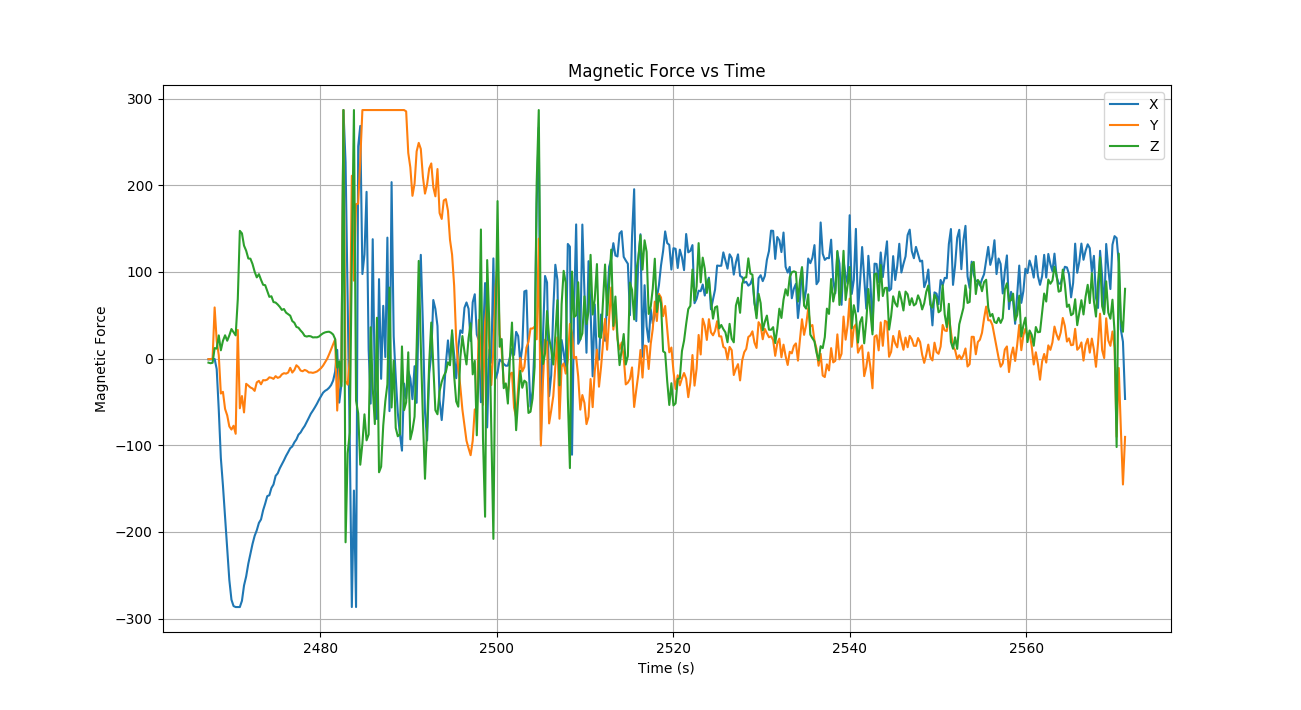
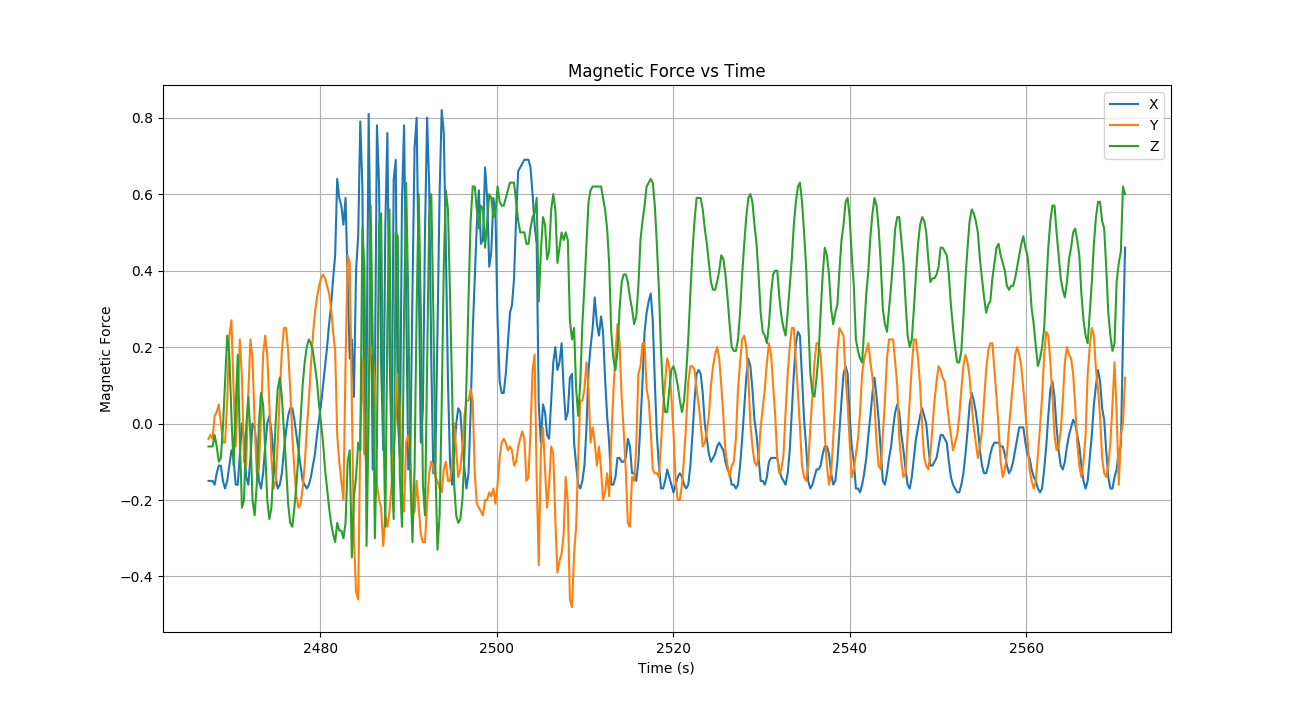
Fixed magGraph

diff --git a/Data/magGraph.py b/Data/magGraph.py
@@ -15,9 +15,9 @@ accz = range(dataPts)
 for i in range(len(words)/37):			#Loop amount of data point times
 	time[i] = float(words[i*37])/1000	#Set first var = the time converted to sec
 						#Use this to add acc in all axies acc[i] = float(words[(i*37)+20]) + float(words[(i*37)+22]) + float(words[(i*37)+24])	#Set the second var to whatever you want, in this case all of the acc added up
-	accx[i] = float(words[(i*37)+2])	#Add 20, 22, 24 for non calculated values
-	accy[i] = float(words[(i*37)+4])	#Add 14, 16, 18 for the calculated values
-	accz[i] = float(words[(i*37)+6])
+	accx[i] = float(words[(i*37)+26])	#Add 20, 22, 24 for non calculated values
+	accy[i] = float(words[(i*37)+28])	#Add 14, 16, 18 for the calculated values
+	accz[i] = float(words[(i*37)+30])
 
 linex, = plt.plot(time, accx, label="X")	#Plot time vs acc on the graph for x y and z axies
 liney, = plt.plot(time, accy, label="Y")
